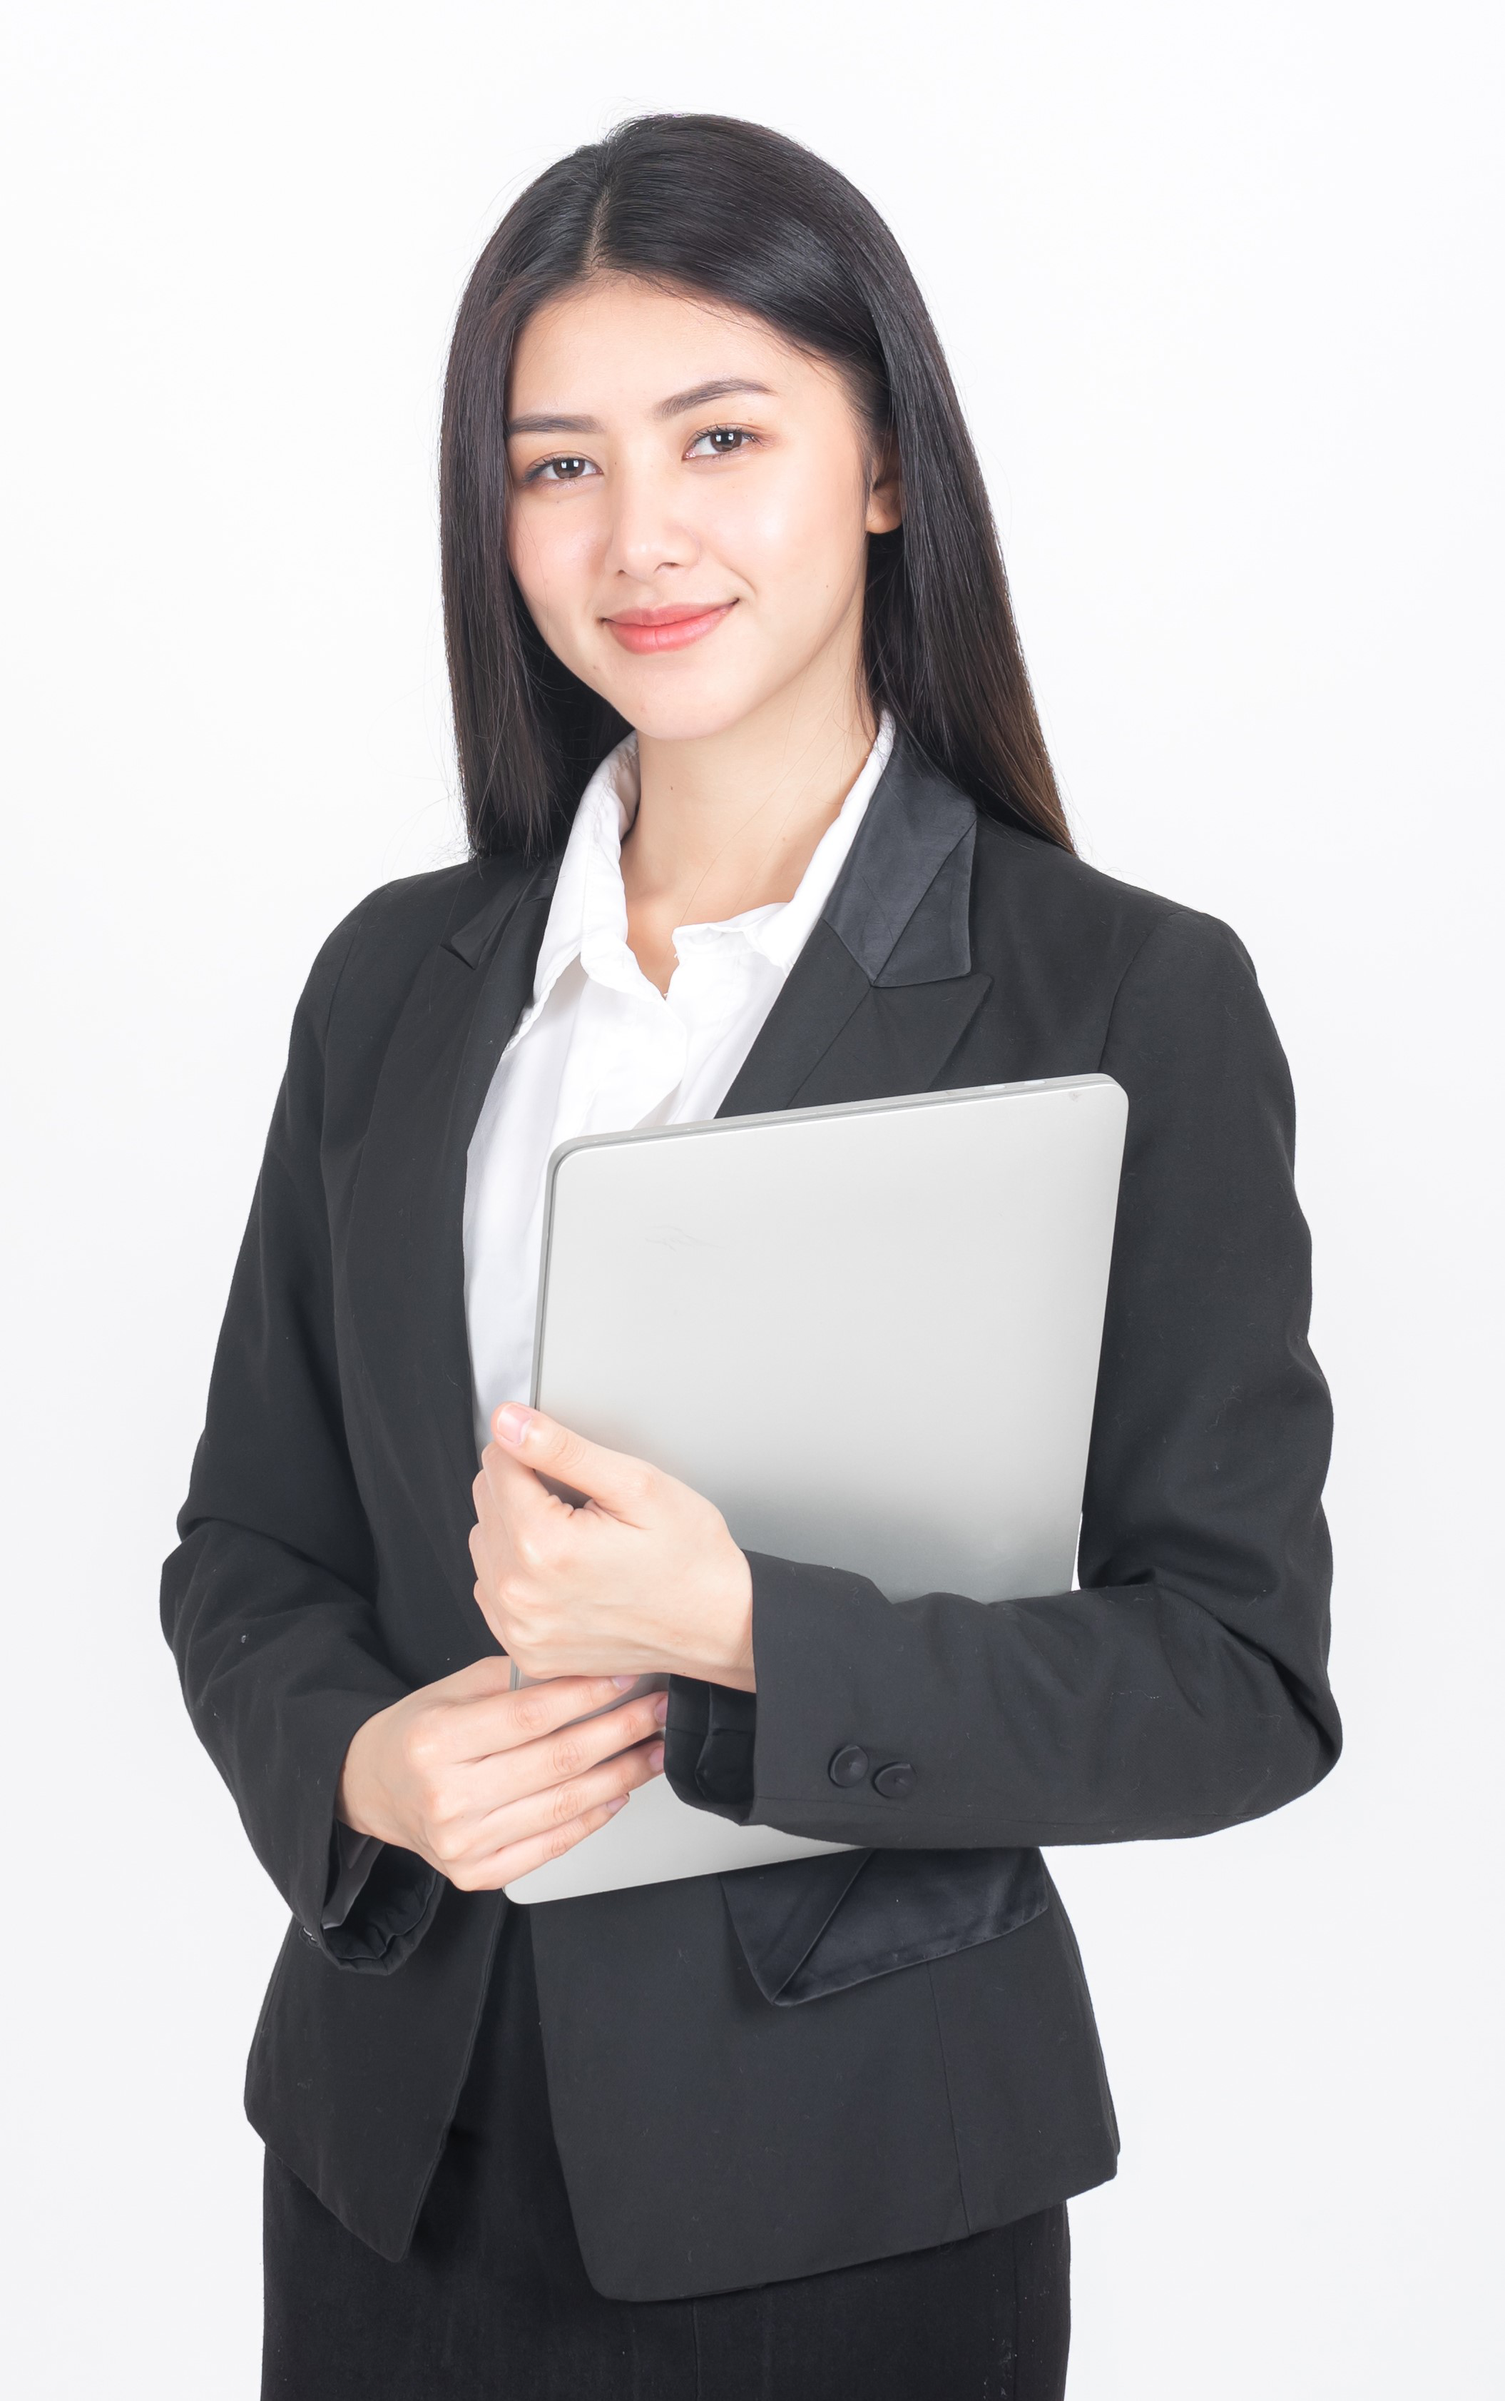
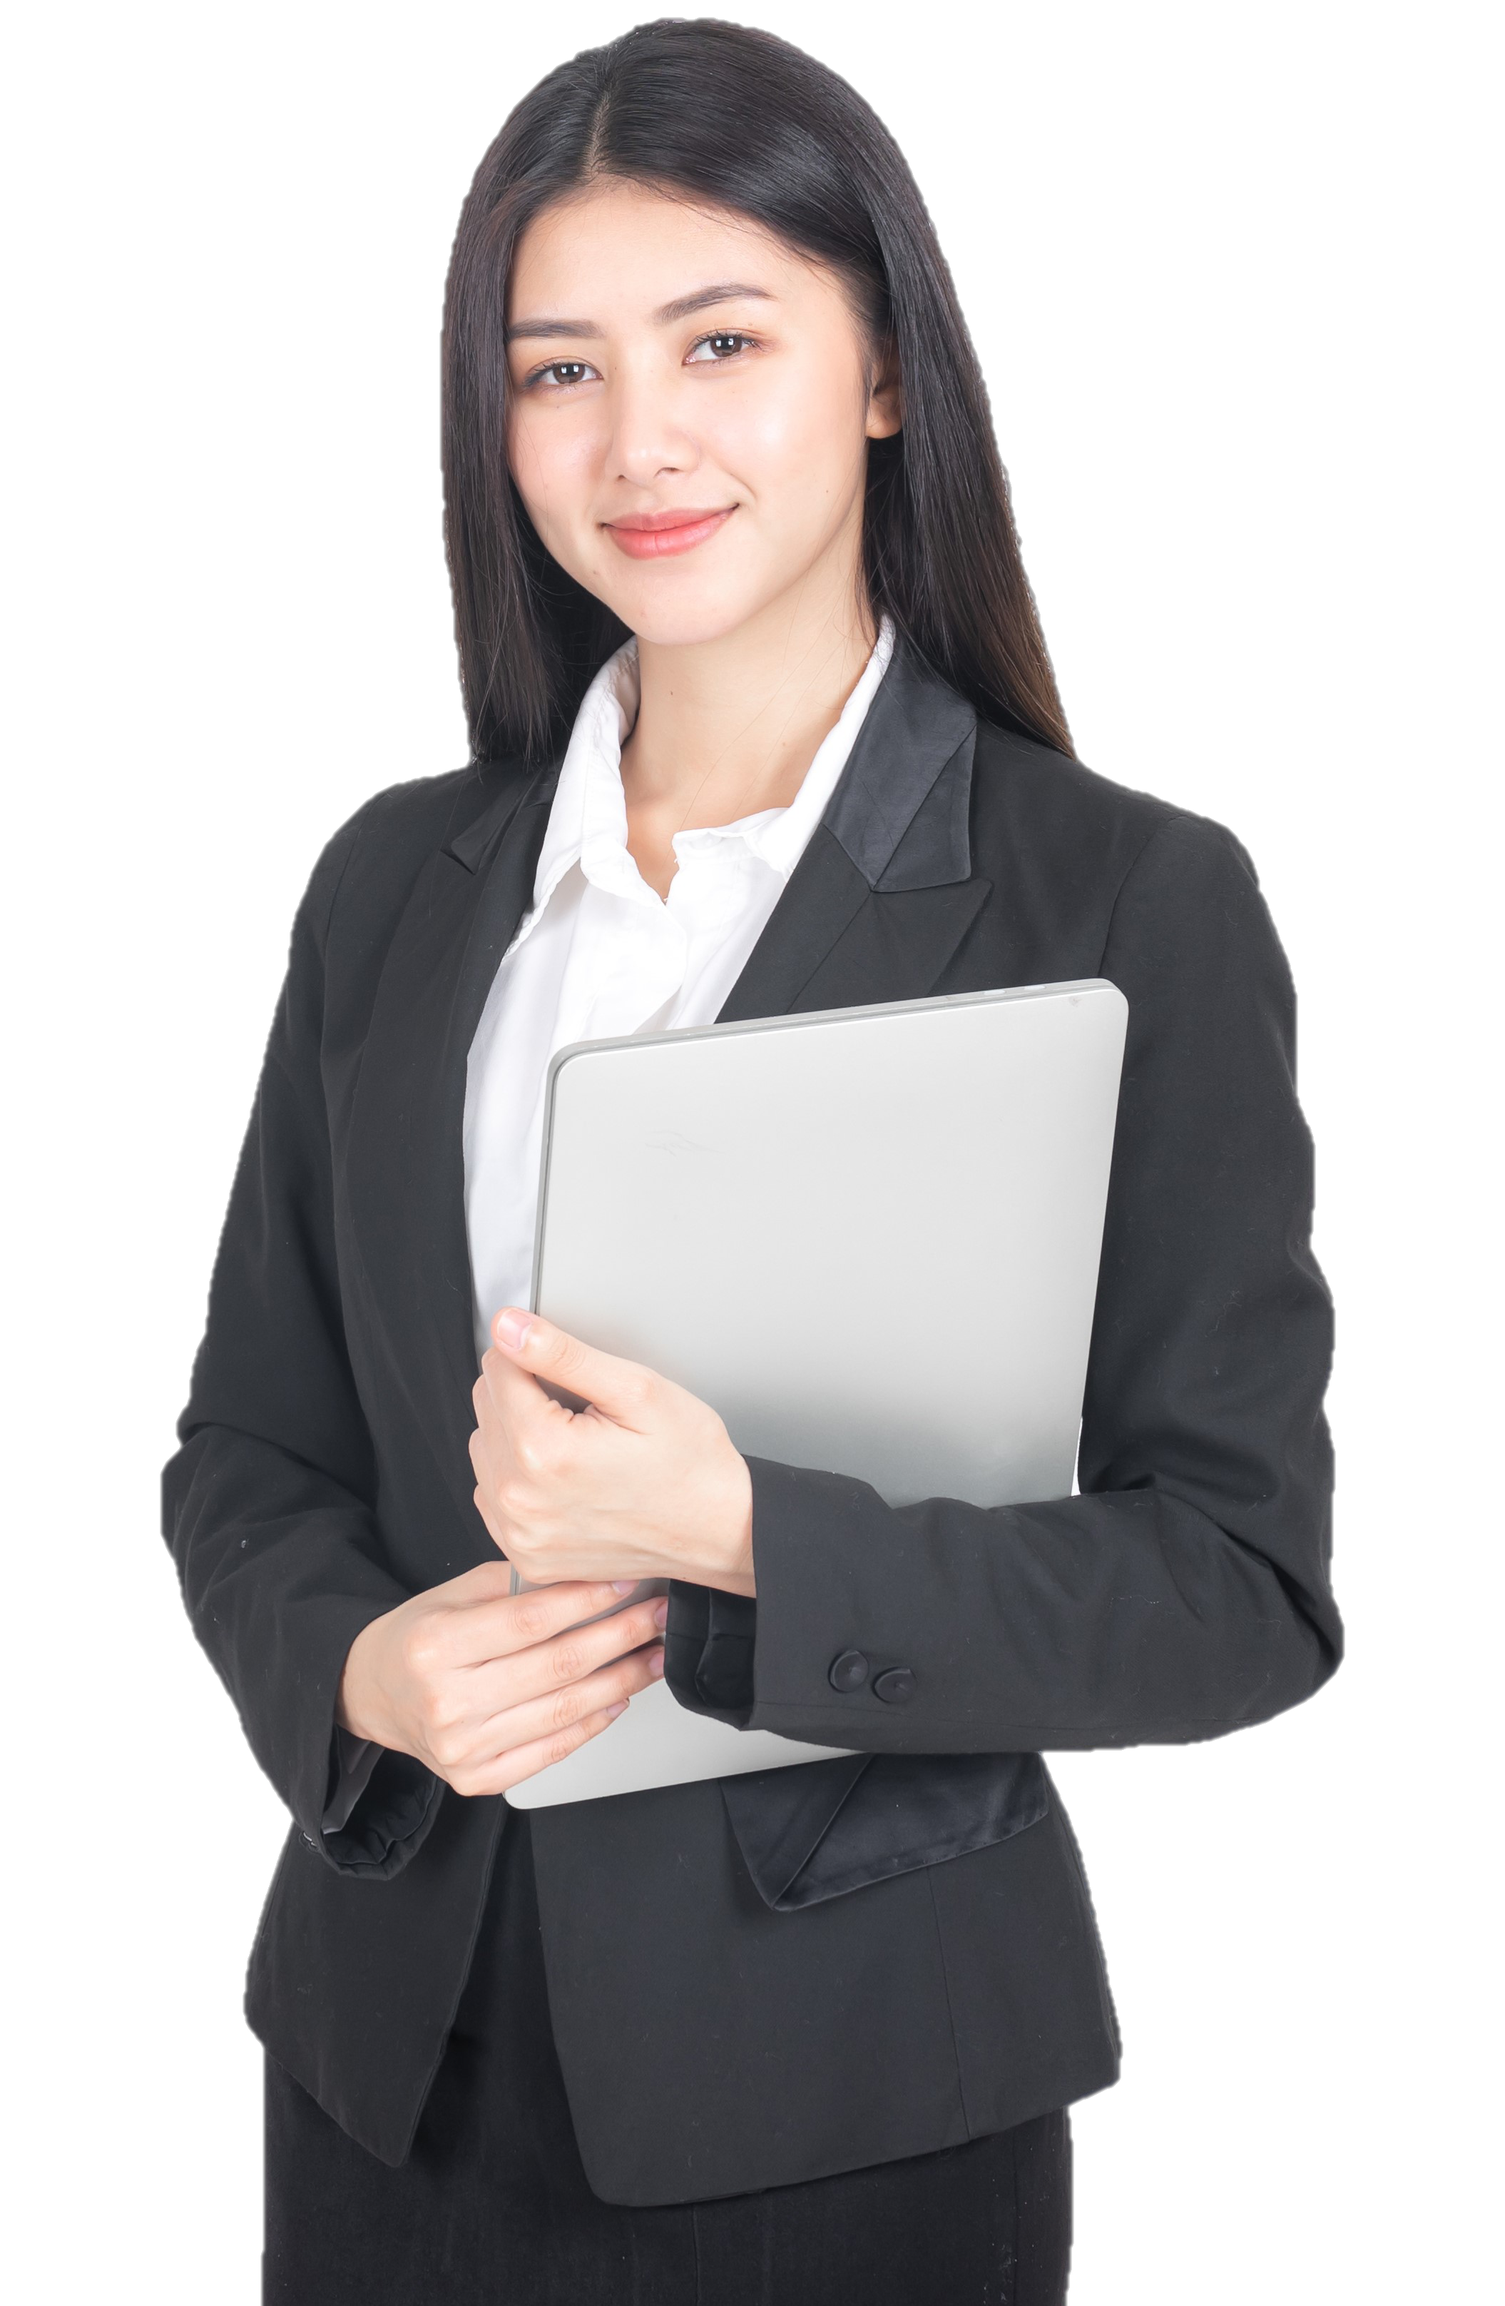
Mobile Update

diff --git a/src/views/pages/cv-gen/newJobsCv.tsx b/src/views/pages/cv-gen/newJobsCv.tsx
@@ -254,21 +254,21 @@ const CVGenerate: FC = () => {
 
           }}>
             <img src="/assets/cvGirl.png" style={{
-              width: isDesktop ? '65%' : isTablet ? '80%' : isMobile ? '78%' : '100%',
+              width: isDesktop ? '85%' : isTablet ? '80%' : isMobile ? '98%' : '100%',
               height: 'auto',
               position: isDesktop ? 'absolute' : isMobile ? 'relative' : 'relative',
-              paddingTop: isDesktop ? '10px' : isMobile ? '10px' : '15px',
-              marginBottom: isMobile ? '-140px' : '-150px',
+              paddingTop: isDesktop ? '100px' : isMobile ? '10px' : '15px',
+              marginBottom: isMobile ? '-100px' : '-110px',
               marginTop: isMobile ? '-140px' : '-150px',
-              marginRight: '-150px',
+              marginRight: isDesktop? '-150px' : isMobile ? '-125px' : '-130px',
               paddingLeft: isTablet ? '100px' : '101px',
             }} />
             <img src="/assets/mainCv.jpeg" style={{
-              width: isDesktop ? '50%' : isMobile ? '48%' : '50%',
+              width: isDesktop ? '70%' : isMobile ? '78%' : '80%',
               height: 'auto',
               position: 'absolute',
               paddingRight: '50px',
-              paddingTop: '200px',
+              paddingTop: isDesktop ?'200px' : isMobile ? '70px' : '72px',
               marginLeft: isDesktop ? '-400px' : isMobile ? 0 : 13,
               marginBottom: isMobile ? '70px' : 13,
             }} />
@@ -284,7 +284,7 @@ const CVGenerate: FC = () => {
         //  fontFamily: 'ubuntu, sans-serif',
         textAlign: 'center',
         color: 'black',
-        marginTop: '50px',
+        marginTop: isDesktop ? '100px' : isMobile ? '30px':'32px',
       }}>
         How to Create CV within 03 steps
       </Typography>
@@ -313,12 +313,13 @@ const CVGenerate: FC = () => {
               padding: isDesktop ? "18px 78px" : isMobile ? "10px 10px" : "10px 10px",
               //width:"100%"
               width: isDesktop ? 500 : isTablet ? "90%" : "90%",
-              marginLeft: isDesktop ? 40 : isMobile ? -10 : -10,
+              marginLeft: isDesktop ? 40 : isMobile ? -40 : -40,
             }}>
               <div style={{
-                paddingLeft: isDesktop ? 0 : isMobile ? 35 : 35,
+                textAlign : isMobile ? 'center' :'center',
+                paddingLeft: isDesktop ? 0 : isMobile ? 15 : 15,
                 paddingRight: isDesktop ? 35 : isMobile ? 10 : 10,
-                width: isDesktop ? 500 : isTablet ? 450 : isMobile ? 300 : 300,
+                width: isDesktop ? 500 : isTablet ? 450 : isMobile ? 315 : 315,
                 paddingBottom: 20,
                 // padding: 10,
                 //paddingBottom:isMobile?20:10,
@@ -342,10 +343,11 @@ const CVGenerate: FC = () => {
                 </Typography>
               </div>
               <div style={{
+                textAlign : isMobile ? 'center' :'center',
                 paddingBottom: 20,
-                paddingLeft: isDesktop ? 0 : isMobile ? 35 : 35,
+                paddingLeft: isDesktop ? 0 : isMobile ? 15 : 15,
                 paddingRight: isDesktop ? 35 : isMobile ? 10 : 10,
-                width: isDesktop ? 500 : isTablet ? 450 : isMobile ? 300 : 300,
+                width: isDesktop ? 500 : isTablet ? 450 : isMobile ? 315 : 315,
                 // padding: 10,
                 // paddingBottom:isMobile?20:10,
               }}>
@@ -368,9 +370,10 @@ const CVGenerate: FC = () => {
                 </Typography>
               </div>
               <div style={{
-                paddingLeft: isDesktop ? 0 : isMobile ? 35 : 35,
+                textAlign : isMobile ? 'center' :'center',
+                paddingLeft: isDesktop ? 0 : isMobile ? 15 : 15,
                 paddingRight: isDesktop ? 35 : isMobile ? 10 : 10,
-                width: isDesktop ? 500 : isTablet ? 450 : isMobile ? 300 : 300,
+                width: isDesktop ? 500 : isTablet ? 450 : isMobile ? 315 : 315,
                 // padding: 10,
                 //paddingBottom:isMobile?20:10,
               }}>
@@ -458,9 +461,12 @@ const CVGenerate: FC = () => {
         }}>
 
           <img src="/assets/admire.jpeg" style={{
-            width: isDesktop ? '92%' : isMobile ? '97%' : '90%',
-            height: '70%',
+            justifyContent: 'center',
+            alignItems: 'center',
+            width: isDesktop ? '92%' : isMobile ? '118%' : '119%',
+            height: '100%',
             paddingLeft: '-50%',
+            marginLeft: isMobile ? '-30px' : '-30px',
 
           }} />
 

diff --git a/src/layouts/common/footer/index.tsx b/src/layouts/common/footer/index.tsx
@@ -16,6 +16,8 @@ import {
   Stack,
   styled,
   Typography,
+  useMediaQuery,
+  Theme,
 } from "@mui/material";
 import React, { FC } from "react";
 import { Link } from "react-router-dom";
@@ -26,9 +28,17 @@ import {
   INSTAGRAM_LINK,
   LINKEDIN_LINK,
 } from "../../../constants/social-links";
+import { useQuery } from "@apollo/client";
 
 const StyledFooter = styled("footer")(({ theme }) => {
   const textColor = theme.palette.secondary.contrastText;
+  const isMobile = useMediaQuery('(max-width: 600px)'); 
+  const isTablet = useMediaQuery<Theme>((theme) =>
+  theme.breakpoints.between("sm", "md")
+);
+const isDesktop = useMediaQuery<Theme>((theme) =>
+  theme.breakpoints.up("lg")
+);
   return {
     background: theme.palette.secondary.main,
     ".container": {
@@ -52,10 +62,25 @@ const StyledFooter = styled("footer")(({ theme }) => {
   };
 });
 const Footer: FC = () => {
+
+  const isMobile = useMediaQuery('(max-width: 600px)'); 
+  const isTablet = useMediaQuery<Theme>((theme) =>
+  theme.breakpoints.between("sm", "md")
+);
+const isDesktop = useMediaQuery<Theme>((theme) =>
+  theme.breakpoints.up("lg")
+);
+
+
   return (
     <StyledFooter className="not-printable" style={{
-      width: '87.5%',
-      marginLeft:'7%',
+      width: isDesktop ? '87.5%' : isMobile ? '87.5%' : '87.5%',
+      marginLeft: isDesktop ? '8%' : isMobile ? '6.5%' : '6.5%',
+      justifyContent: 'center',
+        alignItems: 'center',
+        display:'flex',
+      
+
     }} >
       <Container className="container">
         <Box>
@@ -65,9 +90,15 @@ const Footer: FC = () => {
               alt="jobwomen logo"
               width={240}
               height={100}
+              
+            
             />
           </Link>
-          <Typography maxWidth={"50ch"}>
+          <Typography maxWidth={"50ch"} style={{
+                justifyContent:'center',
+                alignItems:'center',
+                textAlign: isMobile ? 'center':'center',
+              }}>
             jobwomen offers outstanding packages for both candidates and
             recruiters to find jobs and employees in the most effective way.
             Keep in touch with us to explore your DREAM CAREER. © 2022 jobwomen.

diff --git a/src/components/find-job/index.tsx b/src/components/find-job/index.tsx
@@ -215,9 +215,9 @@ const FindUsers: FC<Props> = ({ type, query, navigateLink, url }) => {
           display:'flex',
           flexDirection:"row",
           width:isDesktop ? "94.5%":"100%",
-          marginLeft:isDesktop ? 25:isMobile ? 25:75,
+          //marginLeft:isDesktop ? 25:isMobile ? 10:11,
           borderRadius:0,
-          
+          marginLeft :isDesktop ? 25: isMobile ? '-4%' : '-5%',
           
          }}
          >
@@ -256,11 +256,13 @@ const FindUsers: FC<Props> = ({ type, query, navigateLink, url }) => {
 
            <div style={{
             width:isDesktop? "90%":isMobile?"100%":"66%",
+            // marginLeft : isMobile ? '10%' : '11%',
+            marginRight : isMobile ? '-4%' : '-5%',
             borderRadius:0,
            }}>
            <TextField
               style={{
-                width: isDesktop ? "100%":isMobile?"95%":"90%",
+                width: isDesktop ? "100%":isMobile?"98%":"90%",
               }}
               //fullWidth
               variant="outlined"
@@ -285,8 +287,8 @@ const FindUsers: FC<Props> = ({ type, query, navigateLink, url }) => {
           direction={isMobile ? 'column' : 'row'}
           spacing={{ xs: 2, md: 3 }}
           padding={ isDesktop? "23px 3%": isMobile ?"10px 35px":"5px 45px"}
-          marginLeft={isDesktop ? 0:isMobile ? 1:0}
-          width="100%"
+          marginLeft={isDesktop ? 0:isMobile ? -3.5:-3.5}
+          width={ isDesktop ? "100%" : isMobile ? "120%" : "120%"}
         >
           {/* Render your JobCards or other components here */}
           {jobData?.map((card: any) => (

diff --git a/src/views/pages/home.tsx b/src/views/pages/home.tsx
@@ -294,7 +294,7 @@ const HomePage: FC<HomePageProps> = () => {
       }}>
         <Card style={{
           backgroundColor: 'white',
-          width: isDesktop ? "89%" : isMobile ? "80%" : "85%",
+          width: isDesktop ? "89%" : isMobile ? "87%" : "87%",
 
         }}>
           <h2 style={{
@@ -379,7 +379,7 @@ const HomePage: FC<HomePageProps> = () => {
 
 
               ))}
-              <img src="../assets/rightArrow.png" id="rightArrow" style={{position:'fixed', right:'15%', top:'-8%', transform:  'translateY(-50%)', cursor: 'pointer' }} onClick={scrollToRight}/>
+              <img src="../assets/rightArrow.png" id="rightArrow" style={{position:'fixed', right: isDesktop? '15%' : isMobile ? '11%' : '12%', top:'-8%', transform:  'translateY(-50%)', cursor: 'pointer' }} onClick={scrollToRight}/>
 
             </div>
 
@@ -486,7 +486,7 @@ const HomePage: FC<HomePageProps> = () => {
       }}>
         <Card style={{
           backgroundColor: 'gray',
-          width: isDesktop ? "89%" : isTablet ? "90%" : isMobile ? "80%" : "85%",
+          width: isDesktop ? "85%" : isTablet ? "90%" : isMobile ? "88%" : "88%",
 
         }}>
           <h1 style={{

diff --git a/src/views/pages/cv-gen/index.tsx b/src/views/pages/cv-gen/index.tsx
@@ -110,14 +110,16 @@ const CVGenerate: FC = () => {
             alignItems: 'center',
           }}>
             <img src="/assets/girlnew.png" style={{
-              width: '100%',
+              width: '90%',
               height: '100%',
+              paddingLeft: isMobile ? '3%' : '5%',
 
             }} />
           </Grid>   <Grid item xs={12} md={6} direction={'column'} style={{
             display: 'flex',
             justifyContent: 'flex-start',
             alignItems: 'flex-start',
+            paddingLeft: isMobile ? '1%' : '2%',
           }}>
 
               <Stack direction={"column"} alignItems="flex-start" >
@@ -160,7 +162,9 @@ const CVGenerate: FC = () => {
               <div style={{
                 justifyContent: 'center',
                 alignItems: 'center',
-                paddingLeft: 150,
+                textAlign : isMobile ? 'center' :'center',
+
+                paddingLeft: isMobile ? '38%' : '38%',
                 //paddingLeft: 150, // Space between bullets and text
               }}>
                 <Button component={Link} to="/cv-gen/onboarding" variant="contained" style={{

diff --git a/src/views/pages/salary-job.tsx b/src/views/pages/salary-job.tsx
@@ -225,8 +225,9 @@ const HomePage: FC<HomePageProps> = () => {
             alignItems: 'center',
           }}>
             <img src="/assets/girlnew.png" style={{
-              width: '80%',
-              height: '80%',
+              width: '90%',
+              height: '100%',
+              paddingLeft: isMobile ? '4%' : '5%',
 
             }} />
           </Grid>   <Grid item xs={12} md={6} direction={'column'} style={{
@@ -275,7 +276,10 @@ const HomePage: FC<HomePageProps> = () => {
               <div style={{
                 justifyContent: 'center',
                 alignItems: 'center',
-                paddingLeft: 150,
+                textAlign : isMobile ? 'center' :'center',
+
+                paddingLeft: isMobile ? '38%' : '38%',
+                // paddingLeft: 150,
                 //paddingLeft: 150, // Space between bullets and text
               }}>
                 <Button component={Link} to="/cv-gen/onboarding" variant="contained" style={{

diff --git a/src/layouts/common/nav-bar/index.tsx b/src/layouts/common/nav-bar/index.tsx
@@ -145,8 +145,8 @@ const NavBar: FC<NavBarProps> = () => {
         variant="regular"
         style={{
           justifyContent: "space-between",
-          padding: isDesktop ?"10px 1px": isMobile ? "5px 25px":"10px 5px", 
-        width:"88%"
+          padding: isDesktop ?"10px 1px": isMobile ? "8px 9px":"7px 8px", 
+        width:"95%"
         }}
       >
         <Link to={"/"} style={{

diff --git a/src/views/pages/newJobs.tsx b/src/views/pages/newJobs.tsx
@@ -145,7 +145,7 @@ const NewJobs: FC<HomePageProps> = () => {
       }}>
         <Card style={{
           backgroundColor: 'gray',
-          width: isDesktop ? "87%" : isMobile ? "90%" : "95%",
+          width: isDesktop ? "87%" : isMobile ? "87.5%" : "87.5%",
           marginLeft: isDesktop ? "1.5%" : isMobile ? "0%" : "7.5%",
         }}>
           <h1 style={{
